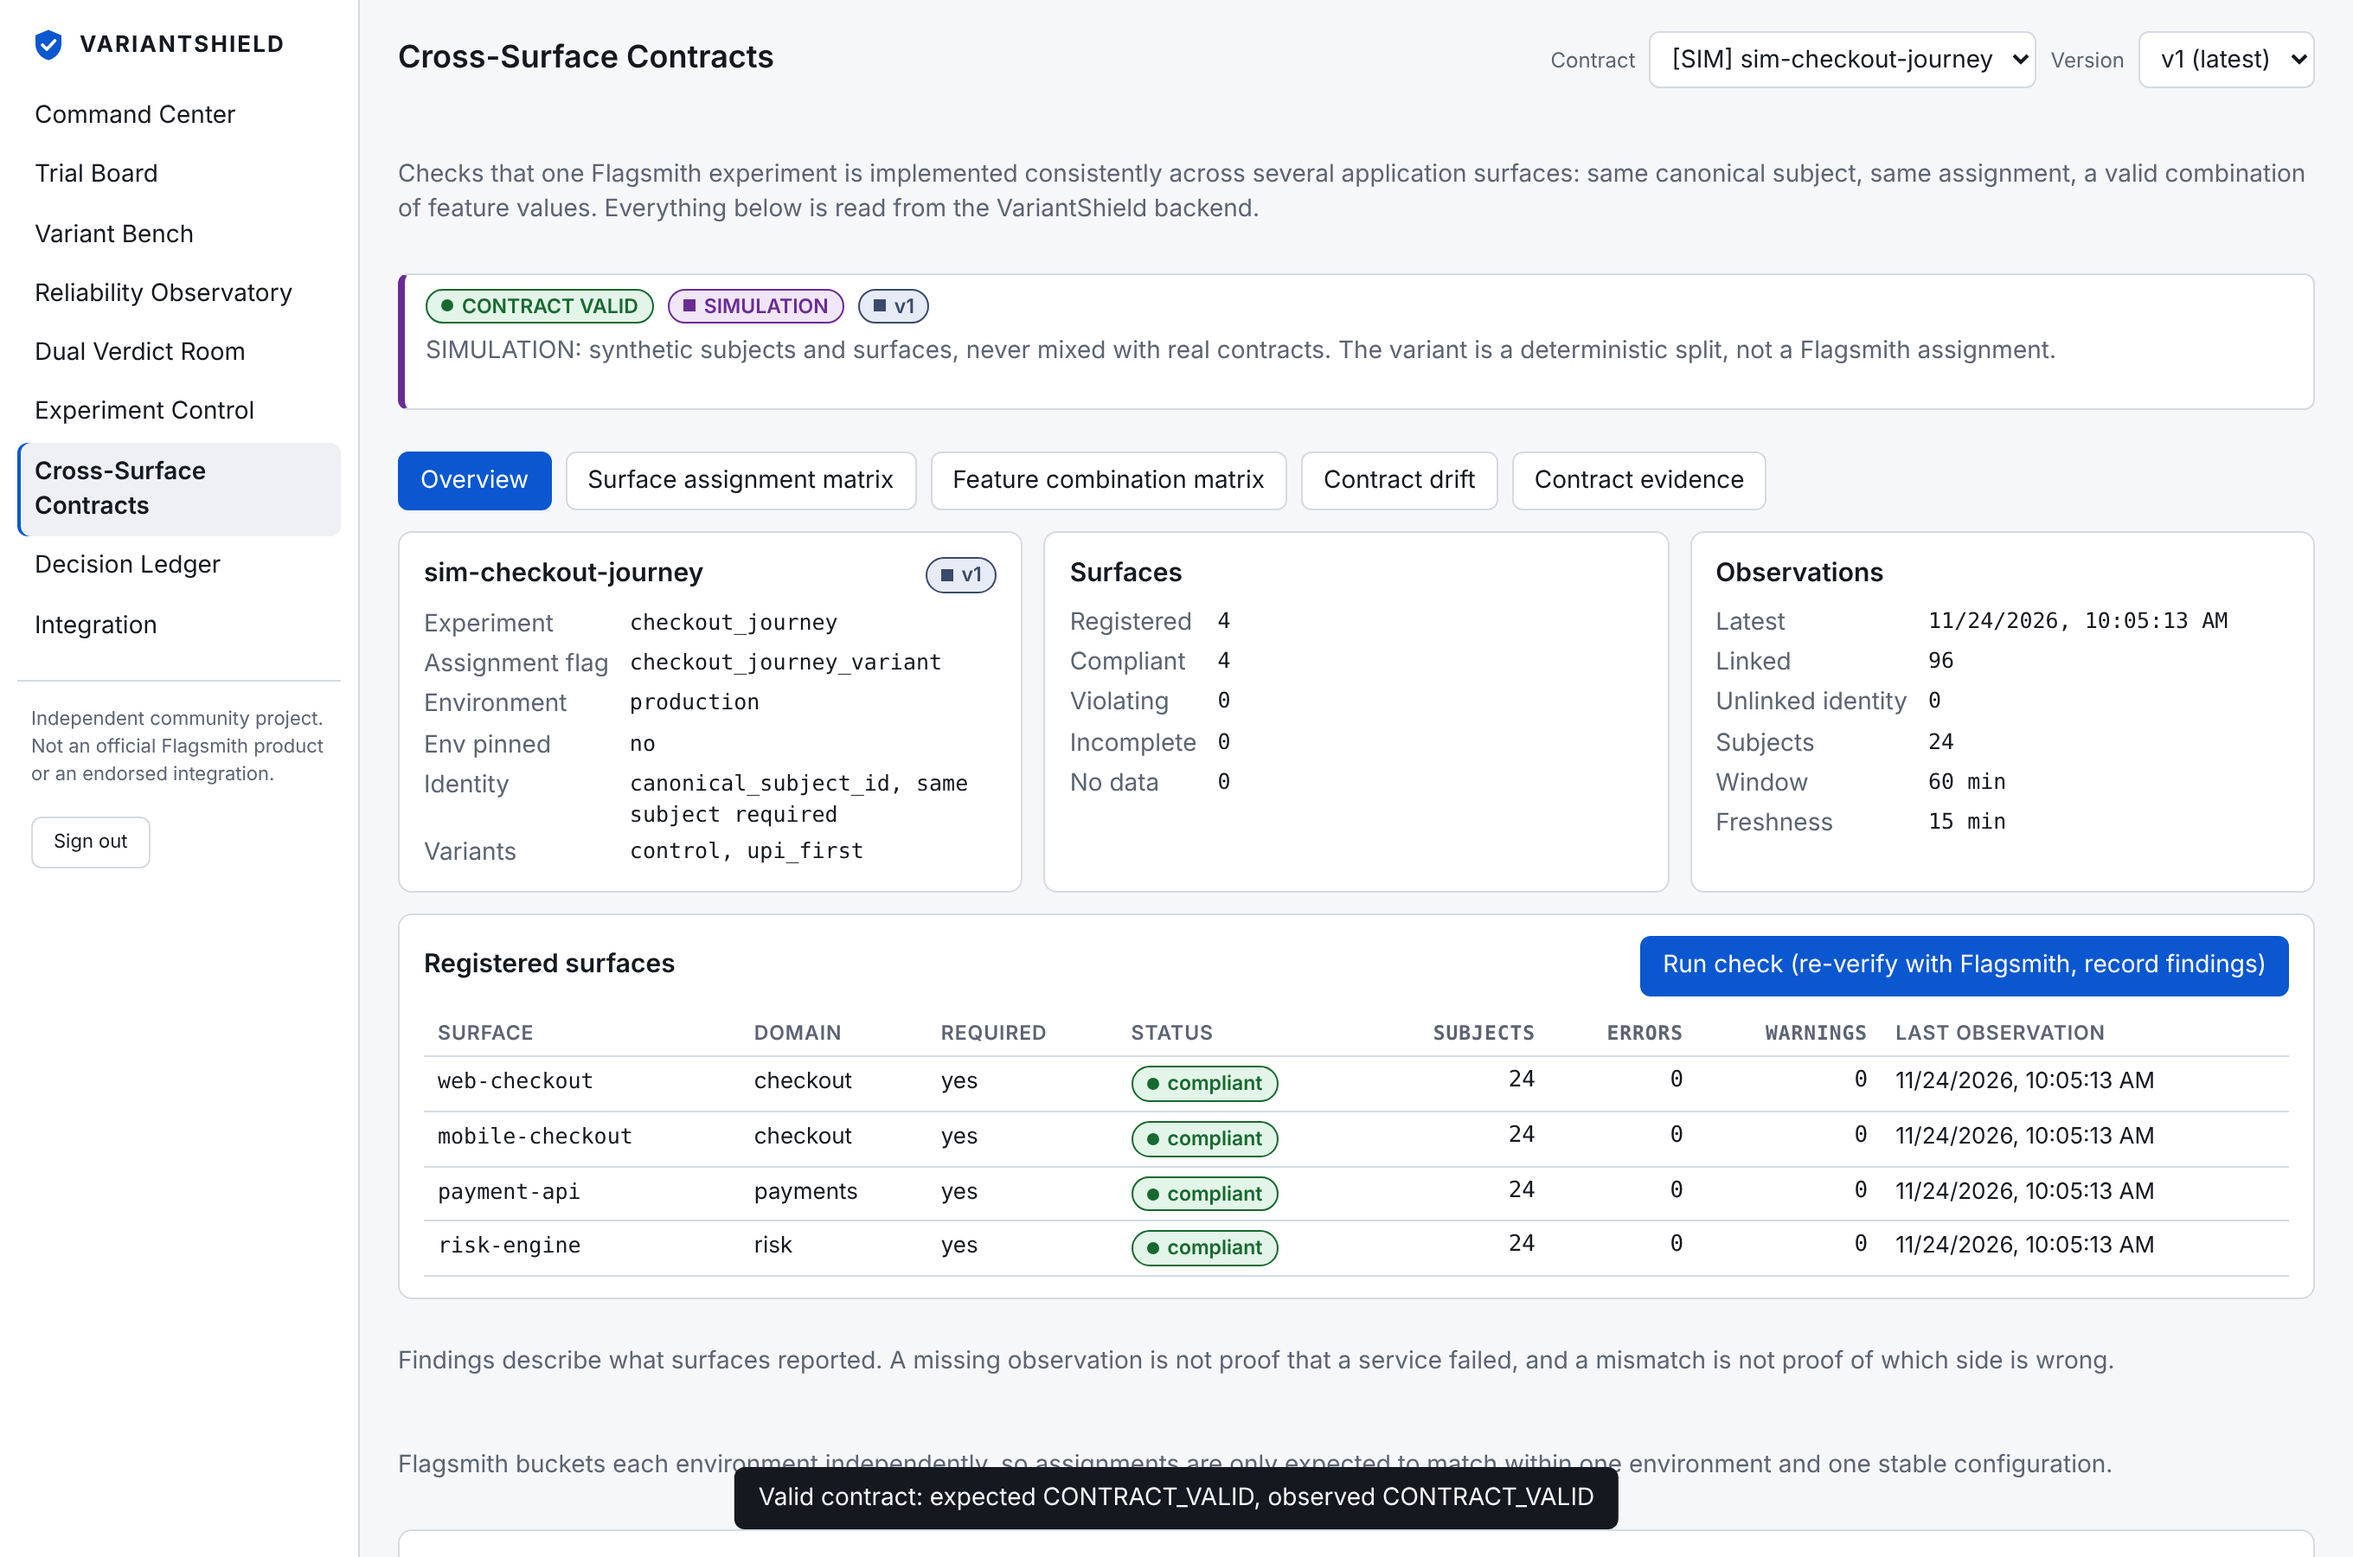
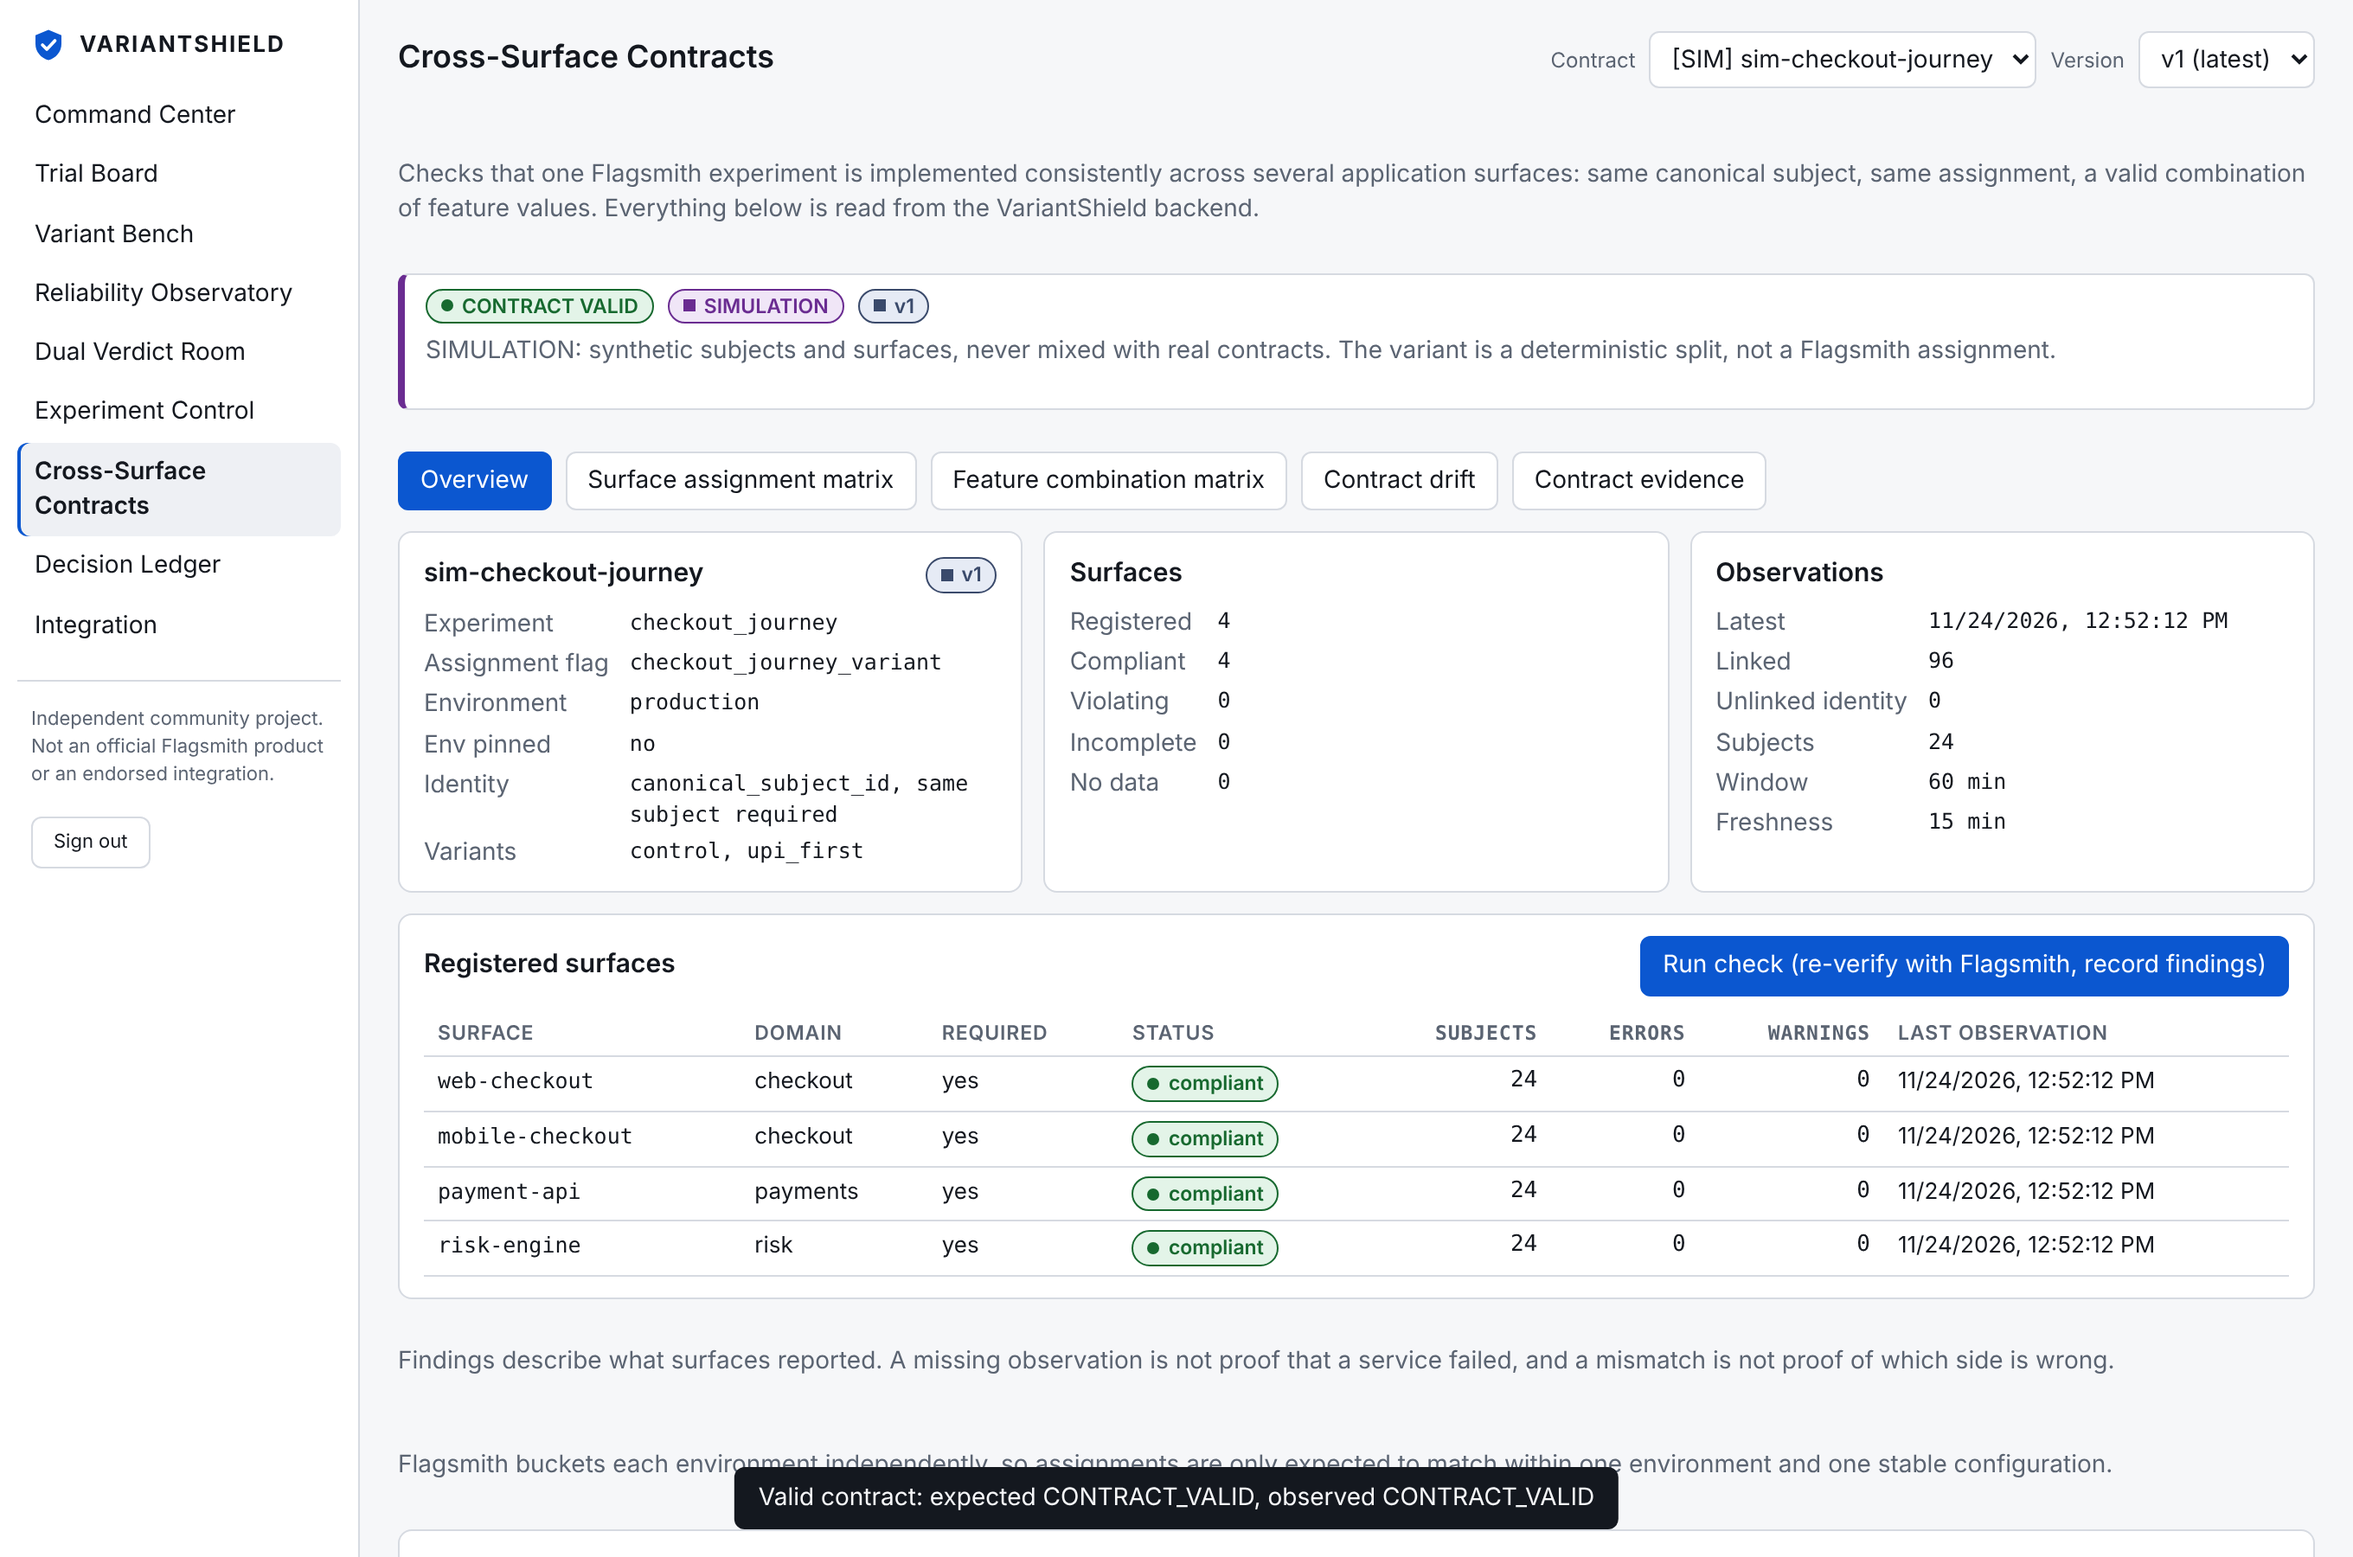
VariantShield docs: record final cross-browser and CodeQL results
Claude-Session: https://claude.ai/code/session_01XJGB19af3cWARhLzjUEHMq

diff --git a/variantshield/docs/RUN_LOG.md b/variantshield/docs/RUN_LOG.md
@@ -37,13 +37,19 @@ Everything below was run on 2026-11-24 in the authoring sandbox. "Real Flagsmith
 3. `scripts/live-demo.ts` always used the first imported plan, which was not the experiment the demo app serves. Added `--plan`.
 4. An earlier run used a 30 s window with 500 users per phase and never left `INSUFFICIENT_DATA`; sample sizes matter, and the documented defaults (900 users, 60 s) were re-run.
 
+## Cross-browser, run in CI (the sandbox cannot download Firefox or WebKit)
+
+`tests/browsers.test.ts` runs in the CI job `browsers` for Firefox and WebKit (Chromium is covered by the main suites). On the head commit both pass: the dashboard signs in, renders the Decision Ledger, answers an assistant question and fits a 390 px screen without horizontal scroll, and the checkout demo's identity cookie comes back on the next request. WebKit failed first, and the failures were real:
+
+1. **Cookie.** WebKit does not send back a `Secure` cookie over `http://127.0.0.1`. The `Secure` flag had been added to satisfy a CodeQL finding, so on Safari the demo issued a new identity, and therefore a new variant, on every request. Now `Secure` is omitted only when the client is on loopback over plain HTTP; every remote client, and HTTPS behind a trusted proxy, still gets it. Each branch spells out its flags literally, which also cleared CodeQL's "missing httpOnly" finding.
+2. **Layout.** At 390 px the page scrolled 15 px sideways in WebKit only. Per-element measurement showed every box fit, and the overflow came from the text inside a `<select>`, which WebKit does not clip when the select is narrower than its longest option. Selects now clip their text, and a duplicated "[SIM] [SIMULATION]" label was shortened.
+
 ## Observed but not explained
 
 * In the second live run the "healthy" phase reported `reliability=WARNING`. The timeline shows a 16.4% failure bucket from the previous run a few minutes earlier in the same experiment's data, which is a plausible cause, but I did not prove it.
 
 ## Not run here
 
-* **Docker and compose.** No Docker daemon in the sandbox. CI builds and starts the image; the compose stacks are only validated with `docker compose config`, never brought up.
-* **Firefox and WebKit.** Browser downloads are blocked in the sandbox. `tests/browsers.test.ts` and the `browsers` CI job exist to run the dashboard and the `Secure`-cookie check in both; their results are recorded in the PR once CI has run.
+* **Docker and compose.** No Docker daemon in the sandbox. CI builds and starts the image (`docker` job); the compose stacks are only validated with `docker compose config`, never brought up.
 * Flagsmith Cloud and ClickHouse or Databricks warehouses.
 * Load beyond the single-process measurements in `IMPLEMENTATION_STATUS.md`.

diff --git a/variantshield/README.md b/variantshield/README.md
@@ -104,8 +104,8 @@ The full, dated record of what was executed against a real Flagsmith (commands, 
 | Playwright bench: clean run | 27/27 pass; each of 4 injected faults fails only the targeted variant |
 | Real Flagsmith (built from source, PostgreSQL 16) | adapter, events, results parsing, lifecycle and the 14-step demo verified |
 | Docker image | CI job `docker` passes: image builds, starts read-only with all capabilities dropped, passes its health check, and refuses a weak production secret. `compose.yaml` and `compose.with-flagsmith.yaml` pass `docker compose config`; the stack itself was never brought up |
-| CodeQL | CI `analyze` passed on the previous head; its one finding was the demo's cookies without `Secure`. The rule is now: `Secure` unless the client is on loopback over plain HTTP (see next row). Whether CodeQL accepts the conditional is not yet confirmed |
-| Demo cookies | CI **confirmed WebKit drops a `Secure` cookie over `http://127.0.0.1`**, which made the demo issue a new identity per request. The demo now omits `Secure` only for loopback clients over plain HTTP; remote and HTTPS clients always get it (unit-tested; Chromium verified locally; Firefox and WebKit run in CI) |
+| CodeQL | CI `analyze` passes on the head commit. Its demo-cookie findings (no `Secure`, missing `httpOnly`) are resolved: each cookie branch now spells out its flags literally, and all three review threads closed after the re-scan |
+| Cross-browser (Chromium, Firefox, WebKit) | the dashboard renders and fits a 390 px screen, and the demo's identity cookie persists, in all three. Getting there found two WebKit-only problems that CI caught: it **drops a `Secure` cookie over `http://127.0.0.1`** (the demo issued a new identity per request; now `Secure` is omitted only for loopback clients over plain HTTP, remote and HTTPS clients always get it) and it **leaks the text inside a narrow `<select>` into page overflow** (29 px at 390 px; selects now clip their text) |
 | Flagsmith Cloud, ClickHouse/Databricks warehouses | not tested |
 | Measured on 20k observations | `/report` 1.9 s to 0.23 s cold after removing two quadratic loops; the repeat read is served from a 5 s cache |
 

diff --git a/variantshield/IMPLEMENTATION_STATUS.md b/variantshield/IMPLEMENTATION_STATUS.md
@@ -75,4 +75,4 @@ Everything that could be executed was executed; the dated record is [`docs/RUN_L
 
 Defects found only by running it, now fixed with regression tests: CLI output truncated at 64 KiB when piped; the assistant treating an empty live window as an all-clear; `live-demo.ts` unable to pick its plan. Observed and not explained: one `WARNING` in a healthy phase right after a previous faulty run.
 
-Still not run: the compose stack (no Docker daemon), Firefox and WebKit locally (CI job `browsers` added), Flagsmith Cloud, ClickHouse and Databricks.
+Cross-browser: CI job `browsers` now runs Firefox and WebKit and passes (see `docs/RUN_LOG.md` for the two WebKit-only defects it found and the fixes). Still not run: the compose stack (no Docker daemon), Flagsmith Cloud, ClickHouse and Databricks.
